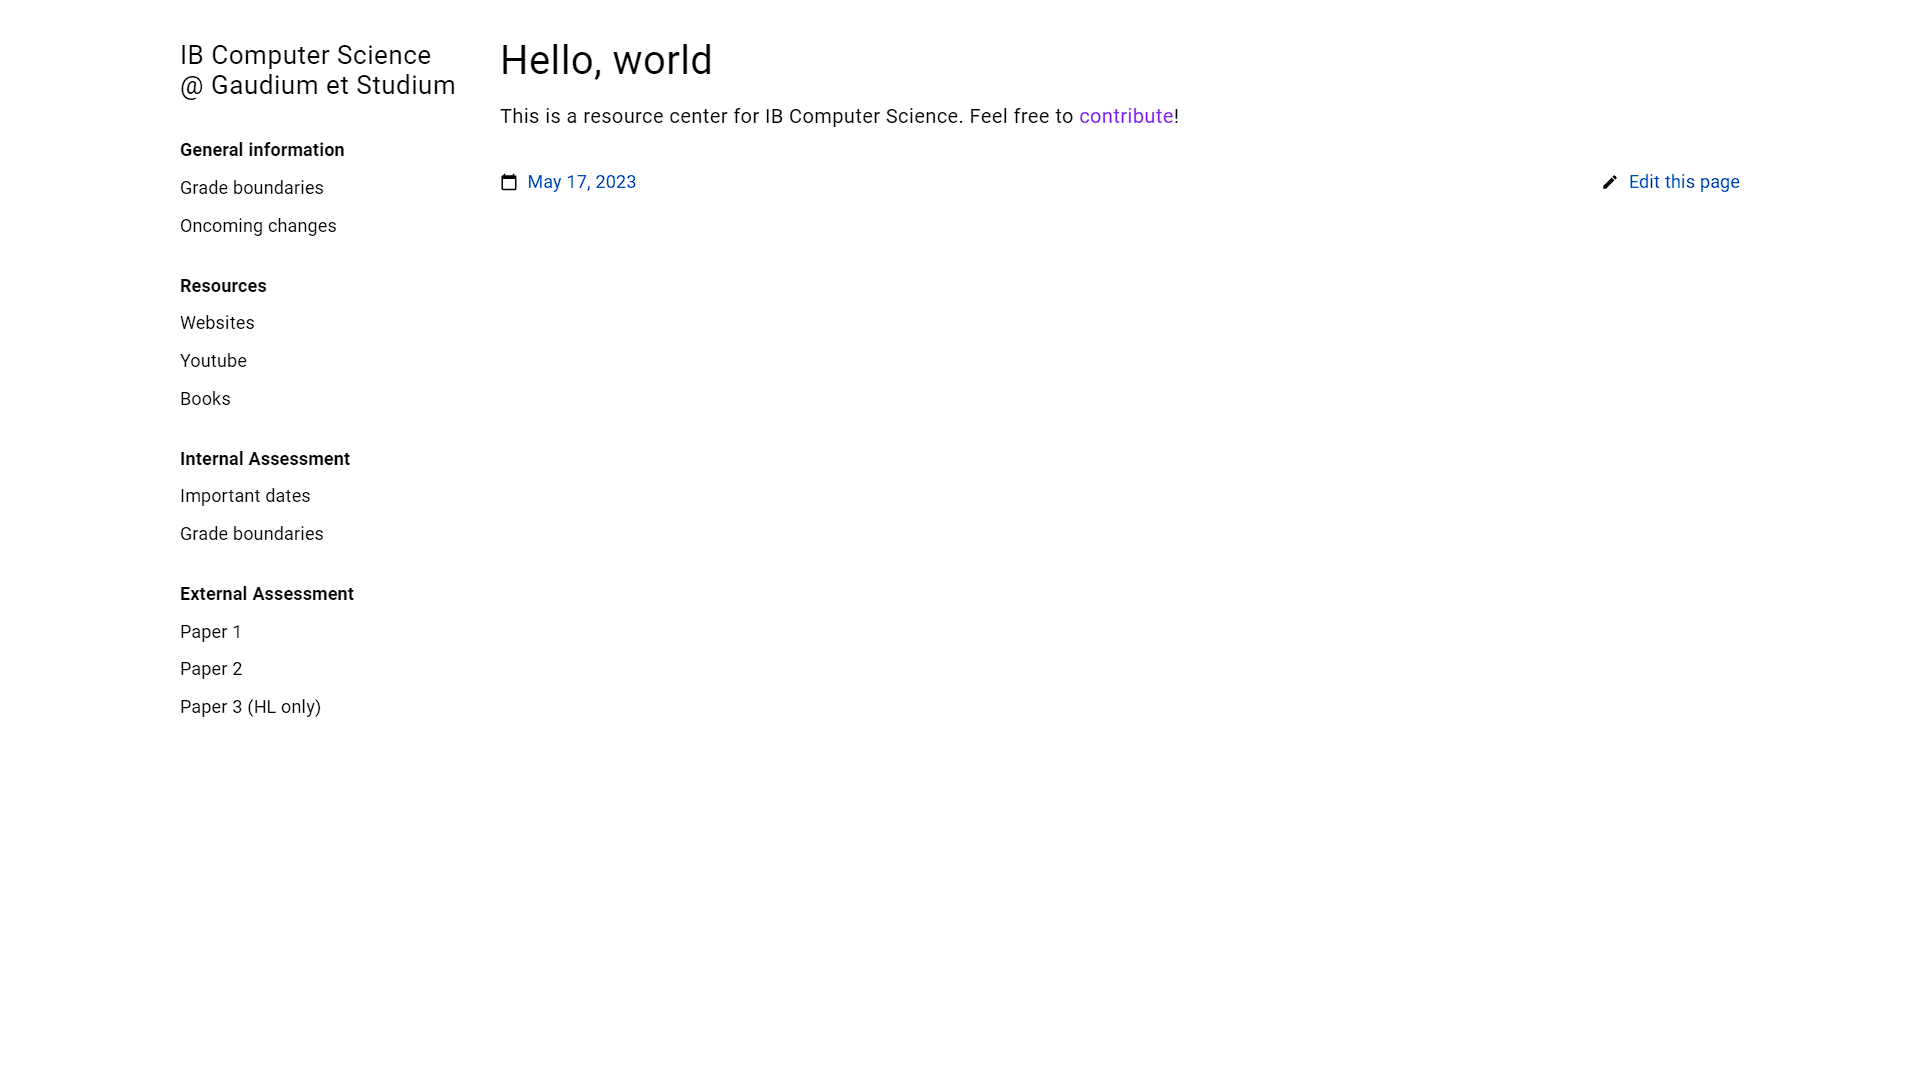
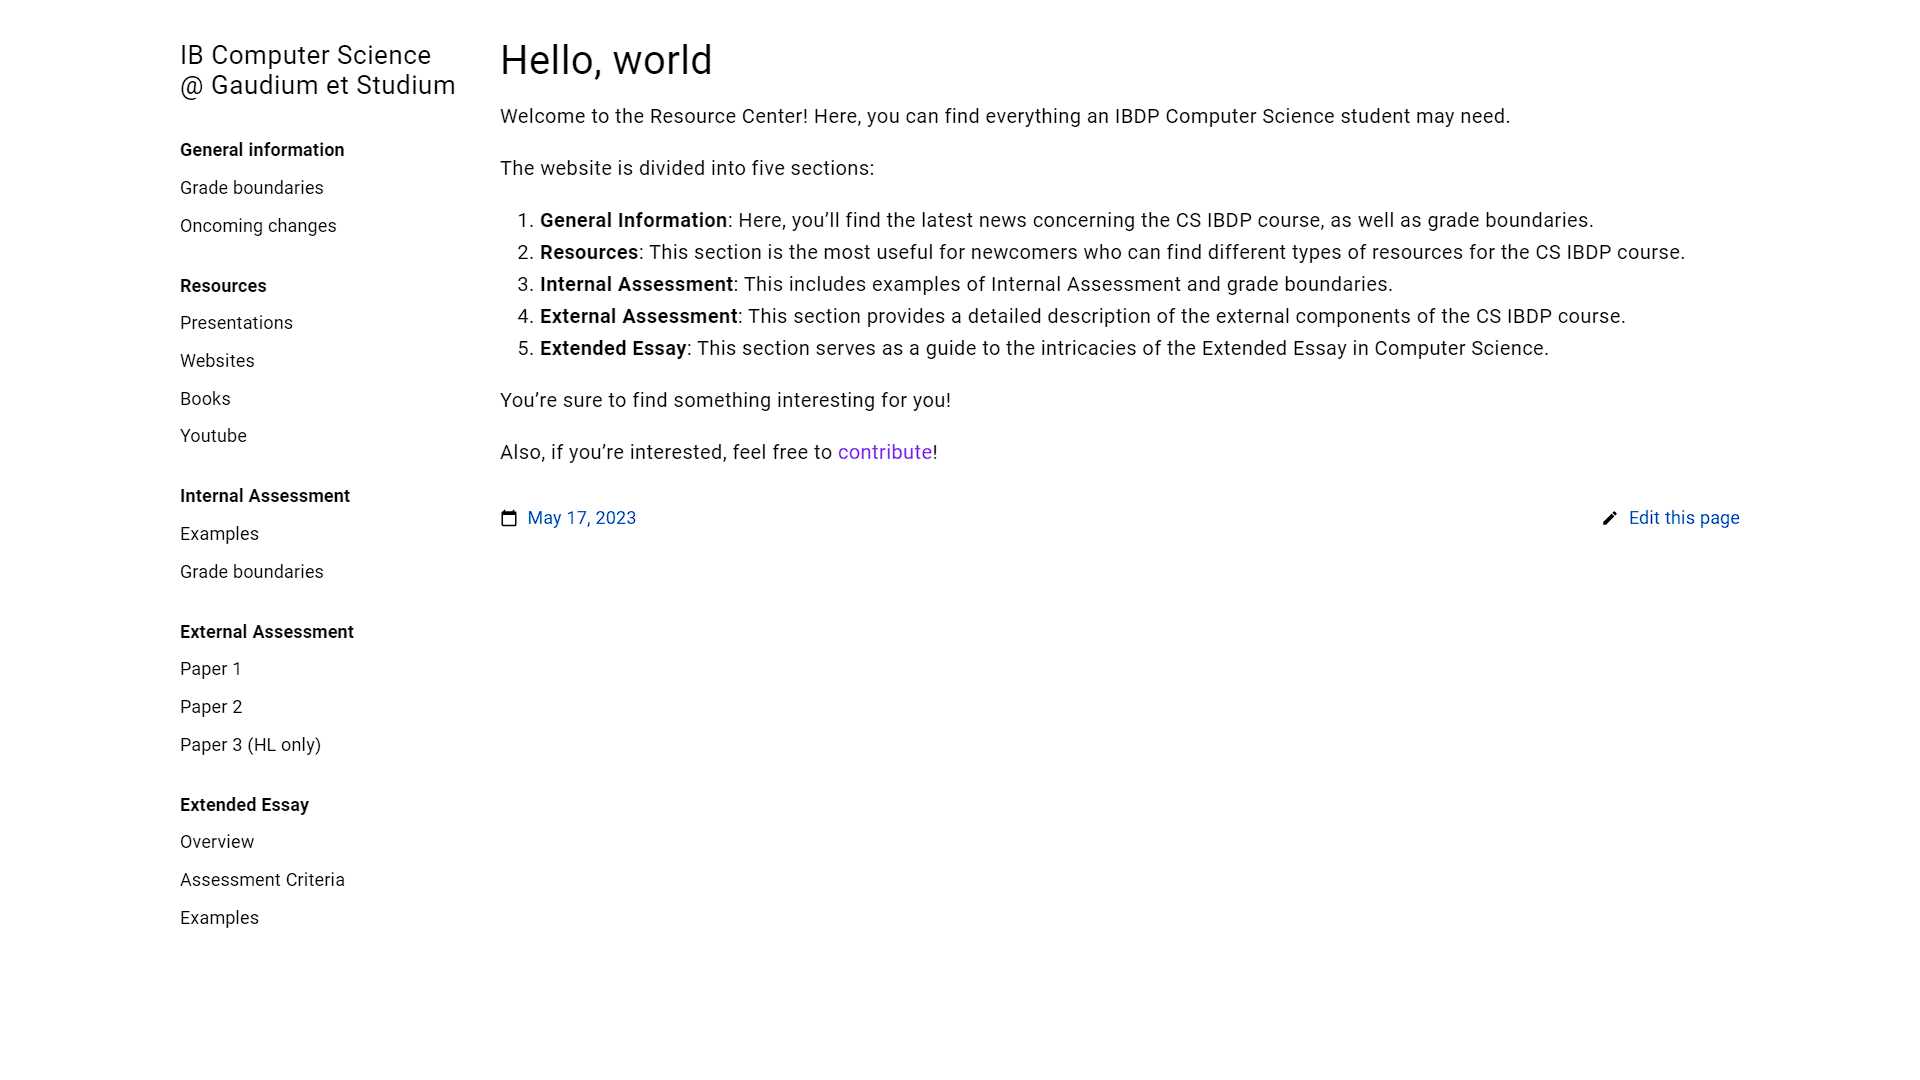
Update README and the welcome page

diff --git a/README.md b/README.md
@@ -1,21 +1,22 @@
 # Computer Science Resource Center
-This resource center was initially meant to enhance the communication between the computer science teacher and students at [Gaudium et Studium](https://www.liceum.eduges.pl). However, it has become a general platform that gathers useful resources for studying [Computer Science in IBDP](https://www.ibo.org/programmes/diploma-programme/curriculum/sciences/computer-science/).
+The Resource Center was initially meant to enhance communication between the computer science teacher and students at [Gaudium et Studium](https://www.liceum.eduges.pl). However, it has evolved into a general platform that gathers useful resources for studying [Computer Science in IBDP](https://www.ibo.org/programmes/diploma-programme/curriculum/sciences/computer-science/).
 
 ![Website](readme.png)
 
 ## How to use
-The website is divided into four sections:
-- General information: here you'll find the latest news concerning CS IBDP course as well as grade boundaries
-- Resources: by far the most useful for newcomers who can find different types of resources fro CS IBDP course
-- Internal Assessemnt: deadlines for GES school and grade boundaries
-- External Assessment: detailed description of external components of CS IBDP course
+The website is divided into five sections:
+
+1. `General Information`: Here, you'll find the latest news concerning the CS IBDP course, as well as grade boundaries.
+2. `Resources`: This section is the most useful for newcomers who can find different types of resources for the CS IBDP course.
+3. `Internal Assessment`: This includes examples of Internal Assessment and grade boundaries.
+4. `External Assessment`: This section provides a detailed description of the external components of the CS IBDP course.
+5. `Extended Essay`: This section serves as a guide to the intricacies of the Extended Essay in Computer Science.
 
 ## Tools
 - [Hugo](https://gohugo.io) - a well-known static website generator (for version requirements see the [Requirements](https://github.com/alex-shpak/hugo-book#requirements) sections of the theme)
 - [Hugo Book Theme](https://github.com/alex-shpak/hugo-book) - a simple plain book theme
 
 ## Contribute
-If you would like to contribute, just fork this repository, make some changes, and open pull request.
-Any contributions are welcomed!
+If you would like to contribute, simply fork this repository, make some changes, and open a pull request. Any contributions are welcome!
 
-However, if you need some help with contributing (for instance, you're a beginner), I wrote an article explaining step-by-step how to do so. You can find it on [IBlieve blog](https://iblieve.org/elevating-ib-computer-science-a-resource-center-guide/). The article assumes you have some basic knowledge about git, Github, and VSCode, but if you don't (which I highly doubt since you're reading this), I also wrote two supplementary articles on my [personal blog](https://undemalum.github.io/portfolio/about/) for you to catch up ([here](https://undemalum.github.io/portfolio/posts/resource-center-environment-preparation/) and [here](https://undemalum.github.io/portfolio/posts/resource-center-publishing-changes/)).
+However, if you need help with contributing, especially if you're a beginner, I've written an article that explains the process step-by-step. You can find it on the [IBlieve blog](https://iblieve.org/elevating-ib-computer-science-a-resource-center-guide/). The article assumes you have some basic knowledge about Git, GitHub, and VSCode, but if you don't (which I highly doubt since you're reading this), I also wrote two supplementary articles on my [personal blog](https://undemalum.github.io/portfolio/about/) for you to catch up ([here](https://undemalum.github.io/portfolio/posts/resource-center-environment-preparation/) and [here](https://undemalum.github.io/portfolio/posts/resource-center-publishing-changes/)).

diff --git a/content/_index.md b/content/_index.md
@@ -4,4 +4,16 @@ Title: Home
 
 # Hello, world
 
-This is a resource center for IB Computer Science. Feel free to [contribute](https://github.com/bprzybylski/IB-CS-GeS)!
+Welcome to the Resource Center! Here, you can find everything an IBDP Computer Science student may need.
+
+The website is divided into five sections:
+
+1. **General Information**: Here, you'll find the latest news concerning the CS IBDP course, as well as grade boundaries.
+2. **Resources**: This section is the most useful for newcomers who can find different types of resources for the CS IBDP course.
+3. **Internal Assessment**: This includes examples of Internal Assessment and grade boundaries.
+4. **External Assessment**: This section provides a detailed description of the external components of the CS IBDP course.
+5. **Extended Essay**: This section serves as a guide to the intricacies of the Extended Essay in Computer Science.
+
+You're sure to find something interesting for you!
+
+Also, if you're interested, feel free to [contribute](https://github.com/bprzybylski/IB-CS-GeS)!

diff --git a/content/extended-essay/examples/_index.md b/content/extended-essay/examples/_index.md
@@ -5,5 +5,5 @@ weight: 3
 
 # Extended Essay examples
 {{< hint warning >}}
-The examples of Extended Essays in Computer Science are available on the [CS EE World](https://cseeworld.wixsite.com/home) website, along with the grade and sometimes contact info of the author. This resource can be extremely helpful to provide you with an idea of what defines a moderate, good, and excellent essay.
+The examples of Extended Essays in Computer Science are available on the [CS EE World](https://cseeworld.wixsite.com/home) website, along with the grade and sometimes contact info to the author. This resource can be extremely helpful to provide you with an idea of what defines a moderate, good, and excellent essay.
 {{< /hint >}}
